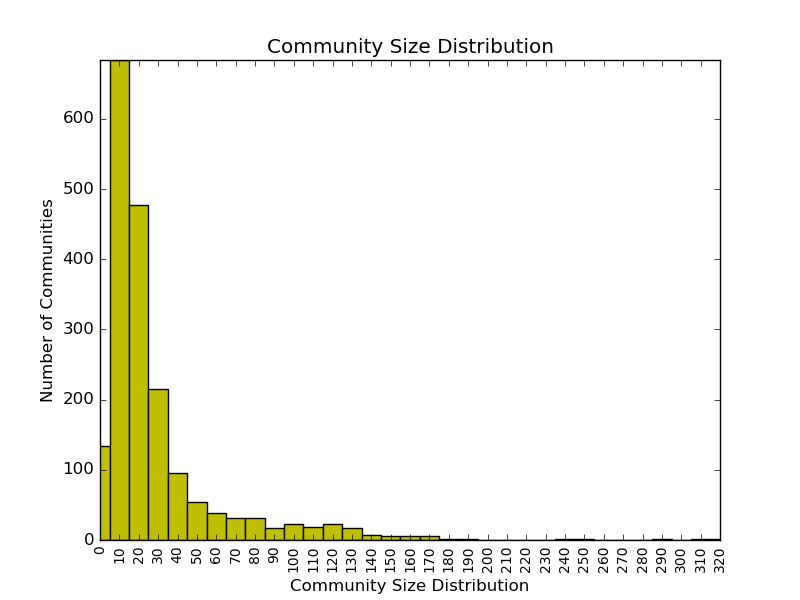
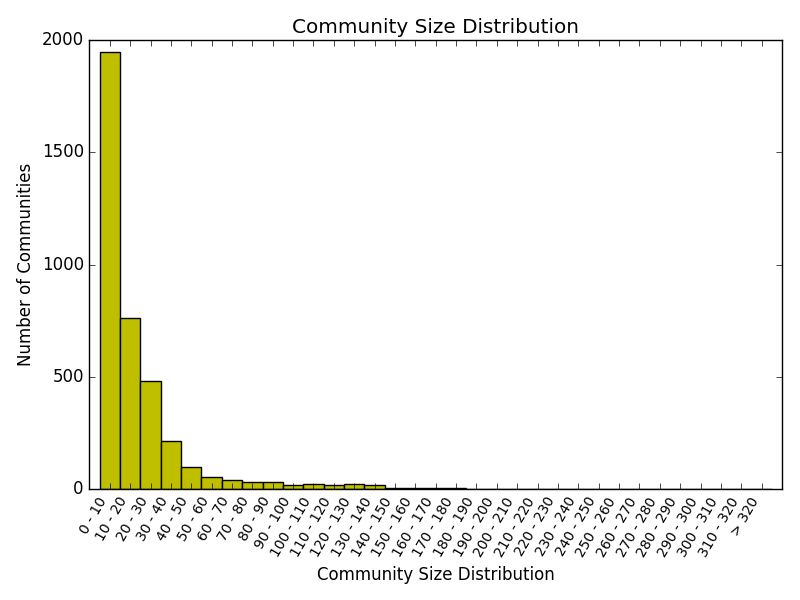
dataset plots separated, optimized

Changed region(s): [[0.0, 0.03, 1.0, 0.99]]

diff --git a/data_plots.py b/data_plots.py
@@ -1,0 +1,41 @@
+import numpy as np
+import pandas as pd
+import ast
+
+def community_size_distribution():
+    df = pd.read_csv('cliques', sep='\] ', header=None)
+    sizes = [len(ast.literal_eval(row[0])) for idx, row in df.iterrows()]
+    df = pd.read_csv('communities', sep='\] ', header=None)
+    sizes += [len(ast.literal_eval(row[0])) for idx, row in df.iterrows()]
+
+    x_axis = np.arange(0, max(sizes), 10)
+    plt.bar(x_axis, bin_by_x_axis(sizes, x_axis), align='center', width=10, color='y')
+    plt.xlabel('Community Size')
+    plt.ylabel('Number of Communities')
+    plt.title('Community Size Distribution')
+    plt.xticks(x_axis, generate_x_ticks(x_axis), rotation='60', ha='right', fontsize='small')
+    plt.xlim([-10, np.max(x_axis) + 10])
+    plt.tight_layout()
+    plt.savefig('community_size_distribution')
+    plt.close()
+
+def user_tweet_distribution():
+    with open('dnld_tweets/active_users.json', 'r') as infile:
+        d = json.load(infile)
+    num_tweets = [d[x] for x in d] 
+    x_axis = np.arange(0, 3300, 100)
+    plt.bar(x_axis, bin_by_x_axis(num_tweets, x_axis), width=100, color='r', align='center')
+    plt.xlabel('Number of Tweets')
+    plt.xticks(x_axis, generate_x_ticks(x_axis), rotation=60, ha='right', fontsize=8)
+    plt.xlim([-100, 3300])
+    plt.ylabel('Number of Users')
+    plt.title('Tweets per User')
+    plt.tight_layout()
+    plt.savefig('tweet_distribution')
+    plt.close()
+
+def generate_x_ticks(x_axis):
+    return [('> ' + str(x_axis[i])) if i == len(x_axis) -1 else (str(x_axis[i]) + ' - ' + str(x_axis[i + 1])) for i in range(0, len(x_axis))]
+
+def bin_by_x_axis(sizes, x_axis):
+    return np.bincount([x - 1 for x in np.digitize(sizes, x_axis)])

diff --git a/get_community_tweets.py b/get_community_tweets.py
@@ -6,6 +6,7 @@ import unicodedata
 import ast
 import json
 import pyprind
+import numpy as np
 import oauth_handler as auth
 import matplotlib.pyplot as plt
 
@@ -50,20 +51,6 @@ def write_tweets(tweets, tweet_filename):
     with open(tweet_filename, 'w') as user_tweets:
         for tweet in tweets:
             user_tweets.write(tweet.text.encode("utf-8") + '\n')
-
-def user_tweet_distribution():
-    with open('dnld_tweets/active_users.json', 'r') as infile:
-        d = json.load(infile)
-    x_axis = [d[x] for x in d] 
-    n, bins, patches = plt.hist(x_axis, 80, facecolor='blue', alpha=0.75)
-    plt.plot(bins)
-    plt.xlabel('Number of Tweets')
-    plt.axis([0, max(x_axis), 0, len(d) * .5])
-    plt.ylabel('Number of Users')
-    plt.grid(True)
-    plt.title('Tweets per User')
-    plt.savefig('tweet_distribution')
-    plt.close()
 
 def main(topology):
     inactive_users = {}
